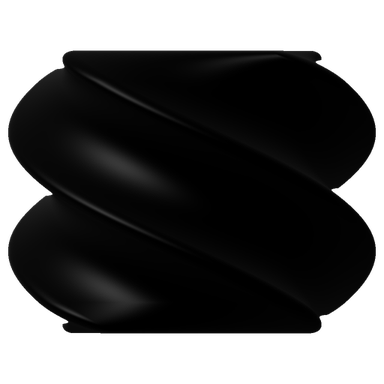
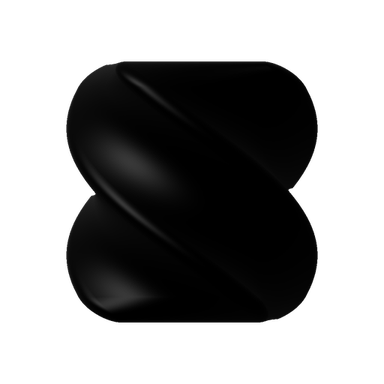
feat(nuancier): proportions calees sur la reference Bambu + tuiles nues
Forme
- l'objet faisait 95% de large pour 72% de haut : ecrase et colle aux bords.
  Nouveaux parametres (0.52 / 0.82, torsion 1.5, camera 1.5) -> bbox carree
  (ratio h/l = 1.04) occupant ~65% du cadre, centree, avec de la marge, comme
  le rendu produit Bambu. Occlusion au sol reajustee.

Tuiles
- en swatchMode, plus de voile noir en degrade ni de titre/sous-titre par-dessus
  la couleur, et plus de badge photos : un nuancier sert a lire une teinte, tout
  voile sombre la fausse.

Changed region(s): [[0.0, 0.125, 1.0, 0.875], [0.2812, 0.3438, 0.4062, 0.4375]]

diff --git a/frontend/src/components/GalleryCompare.jsx b/frontend/src/components/GalleryCompare.jsx
@@ -122,7 +122,7 @@ export default function GalleryCompare({
                 <div style={{ display:"flex", alignItems:"center", justifyContent:"center", height:"100%",
                   color:"var(--muted)", fontSize:10, padding:6, textAlign:"center" }}>{getTitle(item)}</div>
               )}
-              {photos.length > 1 && (
+              {photos.length > 1 && !swatchMode && (
                 <span style={{ position:"absolute", top:6, right:6, background:"rgba(0,0,0,0.6)", color:"white",
                   fontSize:9, fontWeight:700, padding:"2px 6px", borderRadius:20 }}>
                   {photos.length} 📷
@@ -137,15 +137,19 @@ export default function GalleryCompare({
                   {checked && <Check size={13} color="white" strokeWidth={3}/>}
                 </button>
               )}
-              <div style={{ position:"absolute", bottom:0, left:0, right:0,
-                background:"linear-gradient(transparent,rgba(0,0,0,0.78))", padding:"18px 6px 4px" }}>
-                <p style={{ fontSize:10, color:"white", fontWeight:700, margin:0,
-                  overflow:"hidden", textOverflow:"ellipsis", whiteSpace:"nowrap" }}>{getTitle(item)}</p>
-                {getSubtitle && (
-                  <p style={{ fontSize:9, color:"rgba(255,255,255,0.7)", margin:0,
-                    overflow:"hidden", textOverflow:"ellipsis", whiteSpace:"nowrap" }}>{getSubtitle(item)}</p>
-                )}
-              </div>
+              {/* Un nuancier montre des couleurs : pas de voile sombre ni de texte
+                  par-dessus, qui fausseraient la lecture de la teinte. */}
+              {!swatchMode && (
+                <div style={{ position:"absolute", bottom:0, left:0, right:0,
+                  background:"linear-gradient(transparent,rgba(0,0,0,0.78))", padding:"18px 6px 4px" }}>
+                  <p style={{ fontSize:10, color:"white", fontWeight:700, margin:0,
+                    overflow:"hidden", textOverflow:"ellipsis", whiteSpace:"nowrap" }}>{getTitle(item)}</p>
+                  {getSubtitle && (
+                    <p style={{ fontSize:9, color:"rgba(255,255,255,0.7)", margin:0,
+                      overflow:"hidden", textOverflow:"ellipsis", whiteSpace:"nowrap" }}>{getSubtitle(item)}</p>
+                  )}
+                </div>
+              )}
             </div>
           );
         })}

diff --git a/tools/render_vase.py b/tools/render_vase.py
@@ -13,11 +13,14 @@ def rot(p, a):
 def sdf(p):
     """Cube arrondi torsadé autour de Y, legerement bombé."""
     y = p[..., 1]
-    a = 1.9 * y                       # torsion
+    a = 1.5 * y                       # torsion
     q = rot(p, a)
     # renflement : plus large au centre
-    bulge = 1.0 + 0.16 * np.cos(np.clip(y, -1, 1) * 1.35)
-    b = np.array([0.62, 0.72, 0.62]) * np.stack([bulge, np.ones_like(bulge), bulge], -1)
+    bulge = 1.0 + 0.08 * np.cos(np.clip(y, -1, 1) * 1.35)
+    # Proportions calees sur la reference Bambu : bbox ~carree (h/l = 1.03)
+    # occupant ~65% du cadre. La version precedente (0.62/0.72) donnait
+    # 95% de large pour 72% de haut -> objet ecrase et colle aux bords.
+    b = np.array([0.52, 0.82, 0.52]) * np.stack([bulge, np.ones_like(bulge), bulge], -1)
     r = 0.20                          # rayon d'arrondi
     d = np.abs(q) - b
     outside = np.linalg.norm(np.maximum(d, 0), axis=-1)
@@ -33,8 +36,8 @@ def normal(p):
     return n / (np.linalg.norm(n, axis=-1, keepdims=True) + 1e-9)
 
 # Camera orthographique, legerement de trois-quarts
-xs = np.linspace(-1.25, 1.25, S)
-ys = np.linspace(1.25, -1.25, S)
+xs = np.linspace(-1.50, 1.50, S)   # marge autour de l'objet
+ys = np.linspace(1.50, -1.50, S)
 X, Y = np.meshgrid(xs, ys)
 ro = np.stack([X, Y, np.full_like(X, -3.0)], -1)
 rd = np.array([0.0, 0.0, 1.0])
@@ -59,7 +62,7 @@ ndh = np.clip((nrm * H).sum(-1), 0, 1)
 
 # occlusion douce vers le bas + rim
 rim = np.clip(1.0 - np.abs((nrm * V).sum(-1)), 0, 1) ** 2.2
-ao  = np.clip(0.55 + 0.45 * (Y + 0.9), 0.45, 1.0)
+ao  = np.clip(0.58 + 0.42 * (Y + 1.1), 0.48, 1.0)
 
 # Calque MULTIPLY : ombrage matte (PLA), toujours <= 1
 shade = (0.42 + 0.58 * ndl) * ao